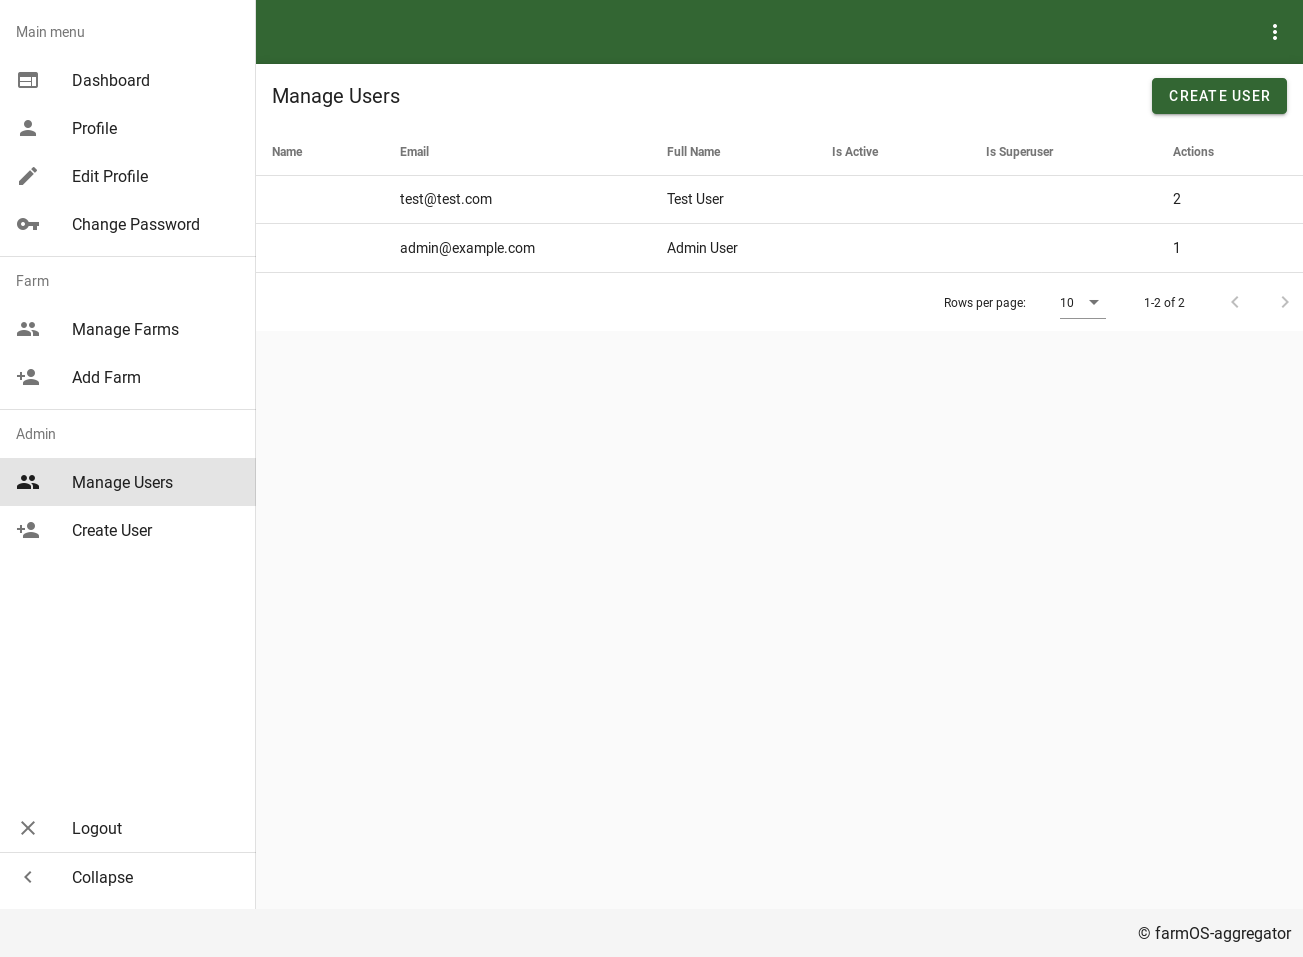
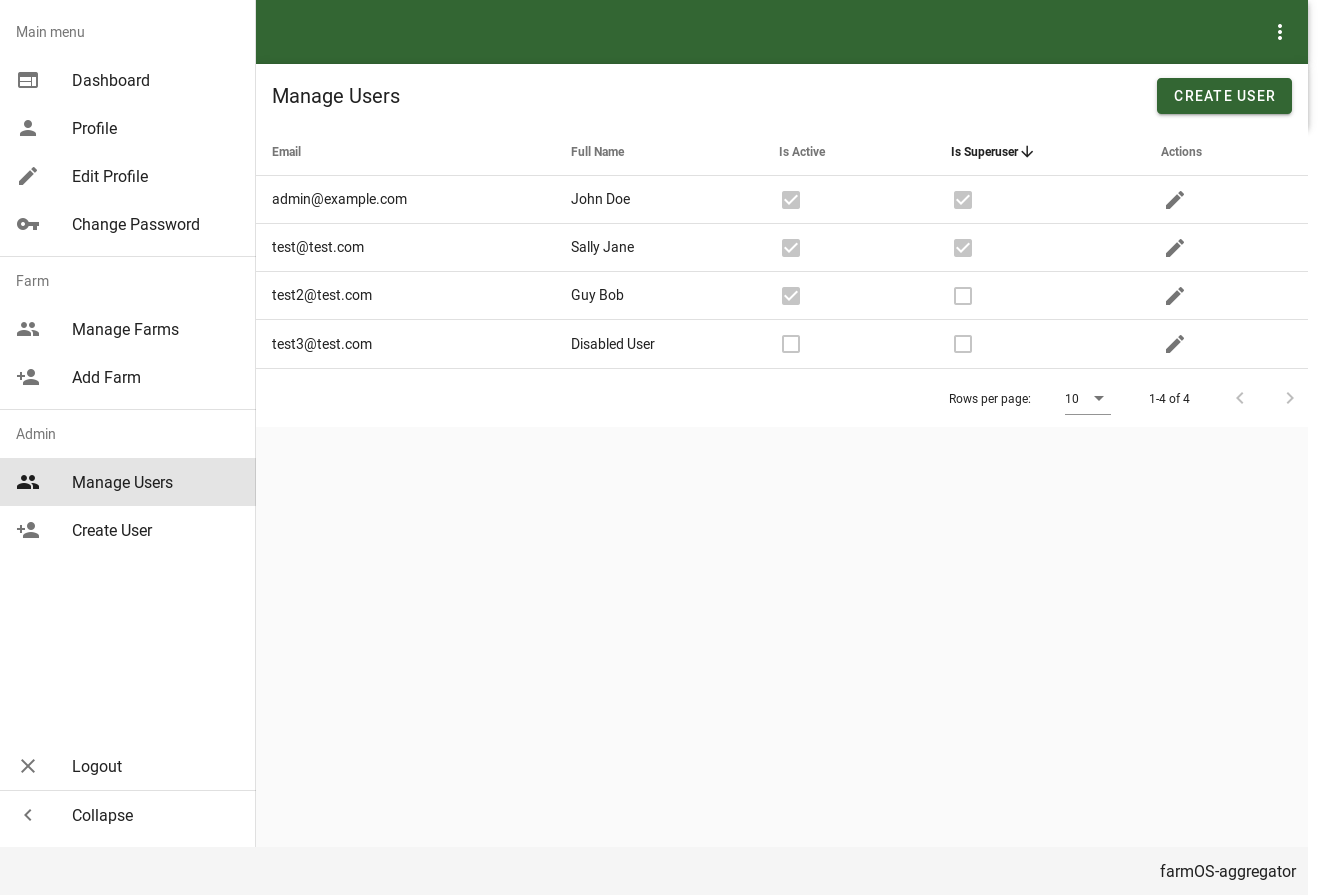
Fix the admin users data table.

diff --git a/frontend/src/views/main/admin/AdminUsers.vue b/frontend/src/views/main/admin/AdminUsers.vue
@@ -8,20 +8,24 @@
       <v-btn color="primary" to="/main/admin/users/create">Create User</v-btn>
     </v-toolbar>
     <v-data-table :headers="headers" :items="users">
-      <template slot="items" slot-scope="props">
-        <td>{{ props.item.name }}</td>
-        <td>{{ props.item.email }}</td>
-        <td>{{ props.item.full_name }}</td>
-        <td><v-icon v-if="props.item.is_active">checkmark</v-icon></td>
-        <td><v-icon v-if="props.item.is_superuser">checkmark</v-icon></td>
-        <td class="justify-center layout px-0">
-          <v-tooltip top>
-            <span>Edit</span>
-            <v-btn slot="activator" flat :to="{name: 'main-admin-users-edit', params: {id: props.item.id}}">
-              <v-icon>edit</v-icon>
-            </v-btn>
-          </v-tooltip>
-        </td>
+      <template v-slot:item.is_active="{ item } ">
+         <v-simple-checkbox v-model="item.is_active" disabled/>
+      </template>
+      <template v-slot:item.is_superuser="{ item } ">
+        <v-simple-checkbox v-model="item.is_superuser" disabled/>
+      </template>
+      <template v-slot:item.action="{ item }">
+        <v-btn
+          text
+          icon
+          :to="{name: 'main-admin-users-edit', params: {id: item.id}}"
+        >
+          <v-icon
+            class="mr-2"
+          >
+            edit
+          </v-icon>
+        </v-btn>
       </template>
     </v-data-table>
   </div>
@@ -38,12 +42,6 @@ import { dispatchGetUsers } from '@/store/admin/actions';
 export default class AdminUsers extends Vue {
   public headers = [
     {
-      text: 'Name',
-      sortable: true,
-      value: 'name',
-      align: 'left',
-    },
-    {
       text: 'Email',
       sortable: true,
       value: 'email',
@@ -58,18 +56,18 @@ export default class AdminUsers extends Vue {
     {
       text: 'Is Active',
       sortable: true,
-      value: 'isActive',
+      value: 'is_active',
       align: 'left',
     },
     {
       text: 'Is Superuser',
       sortable: true,
-      value: 'isSuperuser',
+      value: 'is_superuser',
       align: 'left',
     },
     {
       text: 'Actions',
-      value: 'id',
+      value: 'action',
     },
   ];
   get users() {
